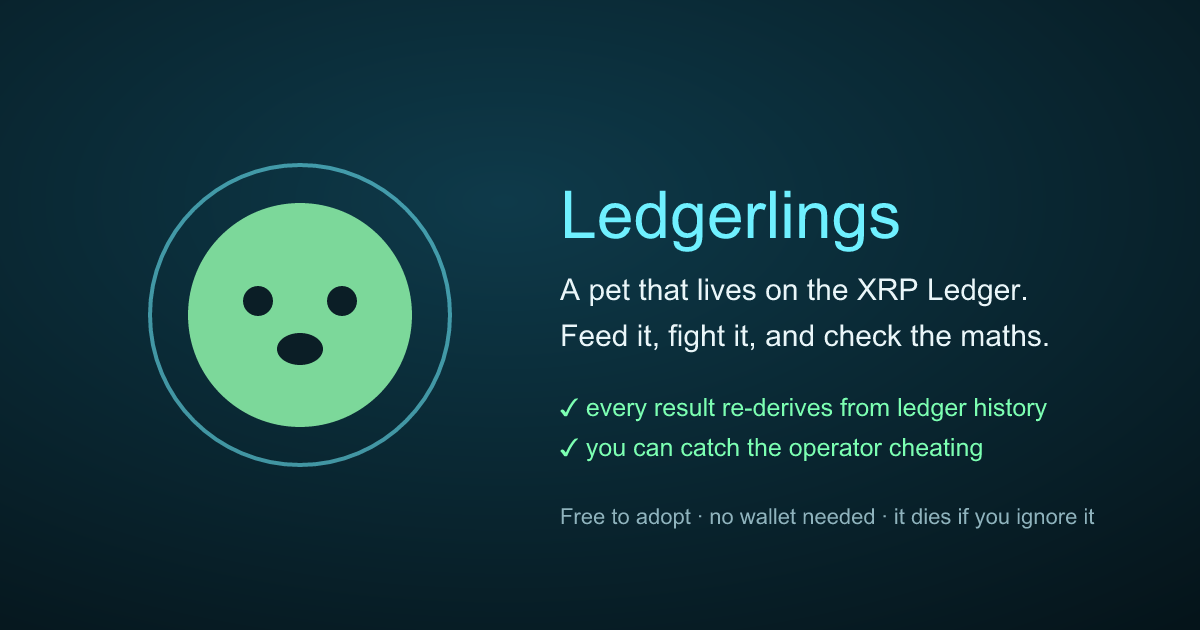
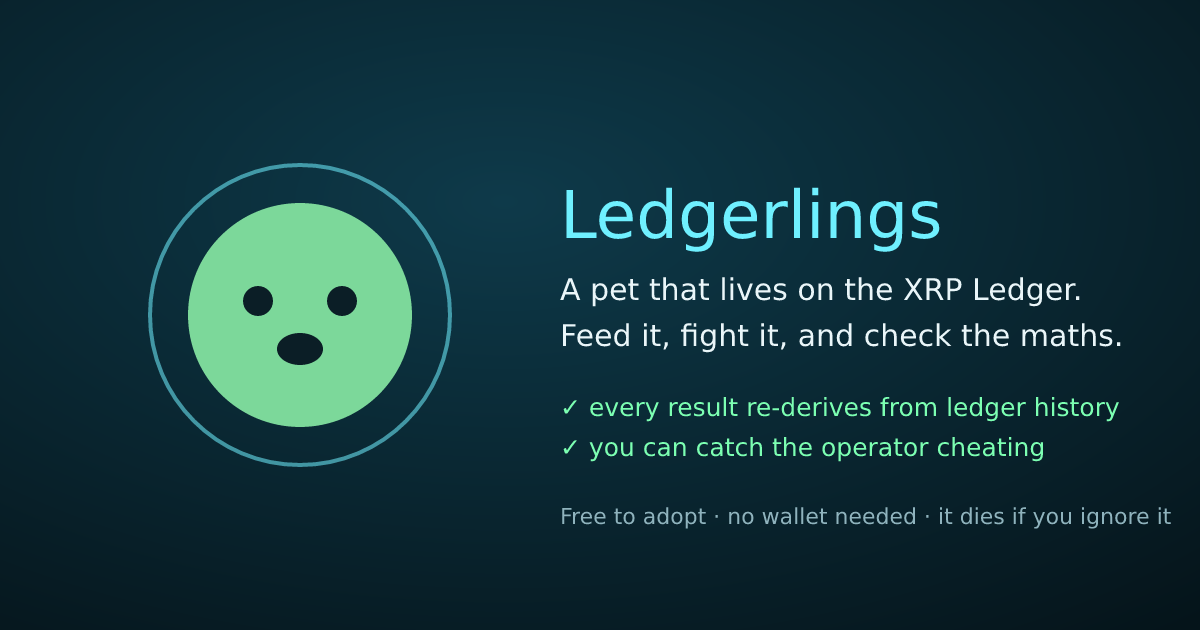
Resolve the PNG font by measurement instead of guessing at it
This has failed in production twice. Both times the cards rendered background and panels with ZERO
text while returning a valid HTTP 200 PNG of the right size, so nothing downstream could tell.

The first diagnosis was the font format: woff2 needs brotli compiled into the resvg binary, the
linux-x64 build lacks it, the darwin-arm64 one has it. Switching to a TTF did NOT fix it — the
deployed build reported pngCards "blank-text" with fontFile "DejaVuSans.ttf". So that diagnosis was
wrong, and a third guess made from a machine that cannot reproduce the environment is worth little.

So the server now tries each way of supplying a font, RENDERS A TEST STRING with each, and keeps the
first that actually puts ink on the canvas: fontFiles, fontDirs, fontBuffers, fontFiles with system
fonts, then system fonts alone. Whatever the real cause is, it finds a working configuration on any
host, and /config reports which one won as fontMode.

Two details that matter more than they look:

- The probe tests ALL THREE font families the cards use, not one. genCardSvg asks for
  "system-ui,sans-serif" and "monospace" while the fight card asks for "DejaVu Sans". A config that
  resolves the explicit name but not the generics would render the fight card and blank half the pet
  card, which reads as success. Every generic is also mapped onto the bundled font.
- The rejection test is the part that has to work, so it was verified directly rather than assumed:
[…]

diff --git a/build/server.js b/build/server.js
@@ -229,7 +229,7 @@ app.get('/config', (req, res) => {
   // the image is empty. There was also no way to tell a stale deploy from a live-but-broken one,
   // since the fix changed no HTTP surface. Now one request answers both questions.
   res.json({ sourceTag: SOURCE_TAG !== undefined ? SOURCE_TAG : null, taxon: TAXON, rulesetVersion: RULESET_VERSION,
-    pngCards: pngStatus(), fontFile: FONT_FILE });
+    pngCards: pngStatus(), fontFile: FONT_FILE, fontMode: FONT_MODE });
 });
 
 // current validated ledger — the frontend uses this as `now` for LIVE pets (real ledger indices) so it can
@@ -1605,48 +1605,88 @@ function genCardSvg(s, nid) {
 //  2. ONE UNSUPPORTED GLYPH TOFUS THE ENTIRE <text> ELEMENT, not just that character. Measured:
 //     "with emoji ✅ here" rendered as 17 empty boxes. So anything going into a PNG is passed
 //     through pngSafe() first. ✓ → · – are all present in DejaVu; emoji are not.
-// TTF, NOT woff2. The first version of this shipped a .woff2 and it rendered perfectly on macOS
-// and produced completely blank text on Railway — panels and background drew, every <text> was
-// empty. woff2 needs brotli support compiled into the resvg binary and the linux-x64 build does not
-// have it, while the darwin-arm64 one does. TTF is fontdb's native format and is always supported.
-// The route still returned HTTP 200 with a valid PNG, so nothing failed loudly; it was only caught
-// by downloading the production image and LOOKING at it.
-let FONT_BUF = null, FONT_FILE = null, PNG_STATUS = 'unprobed';
-function fontBuf() {
-  if (FONT_BUF === null) {
-    try {
-      const p = require.resolve('dejavu-fonts-ttf/ttf/DejaVuSans.ttf');
-      FONT_BUF = require('fs').readFileSync(p);
-      FONT_FILE = p.split('/').slice(-1)[0];
-      probeFont();
-    } catch (e) {
-      FONT_BUF = false; PNG_STATUS = 'font-missing';
-      console.error('[png] font unavailable, PNG cards disabled:', e.message);
-    }
-  }
-  return FONT_BUF;
+// FONT LOADING IS RESOLVED AT RUNTIME BY MEASUREMENT, NOT BY ASSUMPTION.
+//
+// This has now failed in production twice, both times rendering cards with a background, panels,
+// and ZERO text while returning a perfectly valid HTTP 200 PNG of the right dimensions. First guess
+// was the format (woff2 needing brotli); switching to TTF did not fix it, so that diagnosis was
+// wrong. The honest position is that the linux-x64 resvg build and the darwin-arm64 one do not
+// accept fonts by the same route, and this environment cannot be reproduced locally.
+//
+// So instead of a third guess: try each way of supplying the font, RENDER A TEST STRING with each,
+// and keep the first one that actually puts ink on the canvas. Whatever the cause, the server finds
+// the working configuration by itself on any host.
+//
+// The probe checks ALL THREE font families the cards actually use, not just one. genCardSvg asks
+// for "system-ui,sans-serif" and "monospace" while the fight card asks for "DejaVu Sans" — a config
+// that resolves the explicit name but not the generic ones would render the fight card and blank
+// half the pet card, which is exactly the sort of partial failure that reads as success.
+const FONT_FAMILY = 'DejaVu Sans';
+let FONT_FILE = null, FONT_MODE = null, FONT_OPTS = null, PNG_STATUS = 'unprobed', FONT_RESOLVED = false;
+
+function fontFamilyMap() {
+  // Map every generic the SVGs use onto the one font we ship, so "system-ui,sans-serif" and
+  // "monospace" resolve instead of silently falling through to nothing.
+  return { defaultFontFamily: FONT_FAMILY, sansSerifFamily: FONT_FAMILY, serifFamily: FONT_FAMILY,
+           monospaceFamily: FONT_FAMILY, cursiveFamily: FONT_FAMILY, fantasyFamily: FONT_FAMILY };
 }
-function pngStatus() { fontBuf(); return PNG_STATUS; }
-// Render a known string once and count the colours. A font the rasteriser accepts but cannot use
-// yields a picture with a background and nothing else, which is indistinguishable from success at
-// the HTTP layer. This turns that into a loud line in the deploy log.
-let FONT_PROBED = false;
-function probeFont() {
-  if (FONT_PROBED) return; FONT_PROBED = true;
-  try {
-    const { Resvg } = require('@resvg/resvg-js');
-    const svg = '<svg xmlns="http://www.w3.org/2000/svg" width="120" height="40">'
-      + '<rect width="120" height="40" fill="#000"/>'
-      + '<text x="4" y="28" font-family="DejaVu Sans" font-size="20" fill="#fff">Ag1</text></svg>';
-    const px = new Resvg(svg, { font: { fontBuffers: [FONT_BUF], loadSystemFonts: false, defaultFontFamily: 'DejaVu Sans' } }).render().pixels;
+
+// Does this option set put ink on the canvas for every family the cards use?
+function inksFor(opts) {
+  const { Resvg } = require('@resvg/resvg-js');
+  for (const fam of ['DejaVu Sans', 'system-ui,sans-serif', 'monospace']) {
+    const svg = `<svg xmlns="http://www.w3.org/2000/svg" width="140" height="40">`
+      + `<rect width="140" height="40" fill="#000"/>`
+      + `<text x="4" y="28" font-family="${fam}" font-size="20" fill="#fff">Ag1</text></svg>`;
+    let px;
+    try { px = new Resvg(svg, { font: opts }).render().pixels; } catch { return false; }
     const seen = new Set();
     for (let i = 0; i < px.length; i += 4) seen.add((px[i] << 16) | (px[i + 1] << 8) | px[i + 2]);
-    if (seen.size > 2) { PNG_STATUS = 'ok'; console.log(`[png] font ok (${FONT_FILE}) — probe rasterised ${seen.size} distinct colours`); }
-    else { PNG_STATUS = 'blank-text';
-      console.error('[png] FONT LOADED BUT TEXT DOES NOT RASTERISE — every card will render blank. '
-        + 'This is the woff2-on-linux failure; the font must be a TTF.'); }
-  } catch (e) { PNG_STATUS = 'probe-failed'; console.error('[png] font probe failed:', e.message); }
+    if (seen.size <= 2) return false;      // background only: this family drew nothing
+  }
+  return true;
 }
+
+function resolveFont() {
+  if (FONT_RESOLVED) return FONT_OPTS;
+  FONT_RESOLVED = true;
+  const fam = fontFamilyMap();
+  let p = null, buf = null;
+  try {
+    p = require.resolve('dejavu-fonts-ttf/ttf/DejaVuSans.ttf');
+    FONT_FILE = p.split('/').slice(-1)[0];
+    buf = require('fs').readFileSync(p);
+  } catch (e) {
+    console.error('[png] bundled font not found:', e.message);
+  }
+  const dir = p ? p.split('/').slice(0, -1).join('/') : null;
+  // Ordered by how explicit they are. fontFiles first: it is the plainest instruction, and
+  // fontBuffers is the one that demonstrably works on darwin and produced blank text on linux.
+  const candidates = [
+    p && { mode: 'fontFiles', opts: { ...fam, loadSystemFonts: false, fontFiles: [p] } },
+    dir && { mode: 'fontDirs', opts: { ...fam, loadSystemFonts: false, fontDirs: [dir] } },
+    buf && { mode: 'fontBuffers', opts: { ...fam, loadSystemFonts: false, fontBuffers: [buf] } },
+    p && { mode: 'fontFiles+system', opts: { ...fam, loadSystemFonts: true, fontFiles: [p] } },
+    { mode: 'systemFonts', opts: { ...fam, loadSystemFonts: true } },
+  ].filter(Boolean);
+
+  const tried = [];
+  for (const c of candidates) {
+    let ok = false;
+    try { ok = inksFor(c.opts); } catch { ok = false; }
+    tried.push(`${c.mode}:${ok ? 'ok' : 'blank'}`);
+    if (ok) {
+      FONT_MODE = c.mode; FONT_OPTS = c.opts; PNG_STATUS = 'ok';
+      console.log(`[png] font ok via ${c.mode} (${FONT_FILE || 'system'}) — tried ${tried.join(' ')}`);
+      return FONT_OPTS;
+    }
+  }
+  PNG_STATUS = p ? 'blank-text' : 'font-missing';
+  FONT_MODE = 'none';
+  console.error(`[png] NO FONT CONFIGURATION RENDERS TEXT — every card will be blank. tried ${tried.join(' ')}`);
+  return null;
+}
+function pngStatus() { resolveFont(); return PNG_STATUS; }
 // Map the emoji this codebase actually uses onto glyphs DejaVu HAS. Verified by rendering and
 // looking at the output: ✓ (2713), ✕ (2715), → (2192) and · (00B7) all rasterise correctly, so the
 // substitution keeps meaning rather than deleting it. Do NOT widen this into a blanket strip of
@@ -1674,12 +1714,12 @@ function scaleSvg(svg, toWidth) {
   return svg.replace(/(<svg[^>]*\s)width="\d+"([^>]*\s)height="\d+"/, `$1width="${toWidth}"$2height="${nh}"`);
 }
 function svgToPng(svg, width) {
-  const f = fontBuf();
-  if (!f) return null;
+  // Whichever supply route was measured to actually draw glyphs on THIS host. Null means none of
+  // them did, and the routes return 503 rather than serving a picture with no text in it.
+  const font = resolveFont();
+  if (!font) return null;
   const { Resvg } = require('@resvg/resvg-js');
-  return new Resvg(pngSafe(scaleSvg(svg, width)), {
-    font: { fontBuffers: [f], loadSystemFonts: false, defaultFontFamily: 'DejaVu Sans' },
-  }).render().asPng();
+  return new Resvg(pngSafe(scaleSvg(svg, width)), { font }).render().asPng();
 }
 
 app.get('/card/:nid.png', async (req, res) => {
